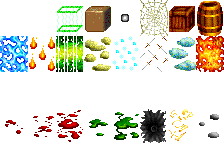
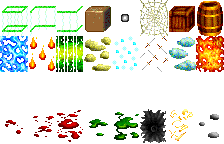
Implement two-part drawing for force cages - Also a missing check for them

Changed region(s): [[0.0, 0.0278, 0.375, 0.25]]

diff --git a/osx/boe.graphutil.cpp b/osx/boe.graphutil.cpp
@@ -471,6 +471,8 @@ void draw_town_boat(location center)
 			}
 }
 
+extern std::vector<location> forcecage_locs;
+
 void draw_fields(location where){
 	if(!point_onscreen(center,where)) return;
 	if(party_can_see(where) >= 6) return;
@@ -525,8 +527,10 @@ void draw_fields(location where){
 		Draw_Some_Item(fields_gworld,calc_rect(6,3),terrain_screen_gworld,where_draw,1,0);
 	if(univ.town.is_rubble(where.x,where.y))
 		Draw_Some_Item(fields_gworld,calc_rect(7,3),terrain_screen_gworld,where_draw,1,0);
-	if(univ.town.is_force_cage(where.x,where.y))
-		Draw_Some_Item(fields_gworld,calc_rect(2,0),terrain_screen_gworld,where_draw,1,0);
+	if(univ.town.is_force_cage(where.x,where.y)) {
+		Draw_Some_Item(fields_gworld,calc_rect(1,0),terrain_screen_gworld,where_draw,1,0);
+		forcecage_locs.push_back(where_draw);
+	}
 }
 
 void draw_party_symbol(location center) {

diff --git a/osx/boe.graphics.cpp b/osx/boe.graphics.cpp
@@ -809,6 +809,8 @@ ter_num_t get_ter_from_ground(unsigned char ground){
 	return 0;
 }
 
+std::vector<location> forcecage_locs;
+
 void draw_terrain(short	mode)
 //mode ... if 1, don't place on screen after redoing
 // if 2, only redraw over active monst
@@ -1029,6 +1031,10 @@ void draw_terrain(short	mode)
 		draw_party_symbol(center);
 	else if (overall_mode != MODE_LOOK_TOWN)
 		draw_pcs(center,0);
+	// Draw top half of forcecages (this list is populated by draw_fields)
+	// TODO: Move into the above loop to eliminate global variable
+	for(location fc_loc : forcecage_locs)
+		Draw_Some_Item(fields_gworld,calc_rect(2,0),terrain_screen_gworld,fc_loc,1,0);
 	
 	// Now do the light mask thing
 	apply_light_mask(false);

diff --git a/osx/boe.text.cpp b/osx/boe.text.cpp
@@ -891,6 +891,8 @@ short do_look(location space)
 			add_string_to_buf("    Ice Wall               ");
 		if (univ.town.is_blade_wall(space.x,space.y))
 			add_string_to_buf("    Blade Wall               ");
+		if (univ.town.is_force_cage(space.x,space.y))
+			add_string_to_buf("    Force Cage               ");
 		
 		if (univ.town.is_sm_blood(space.x,space.y))
 			add_string_to_buf("    Blood stain               ");
